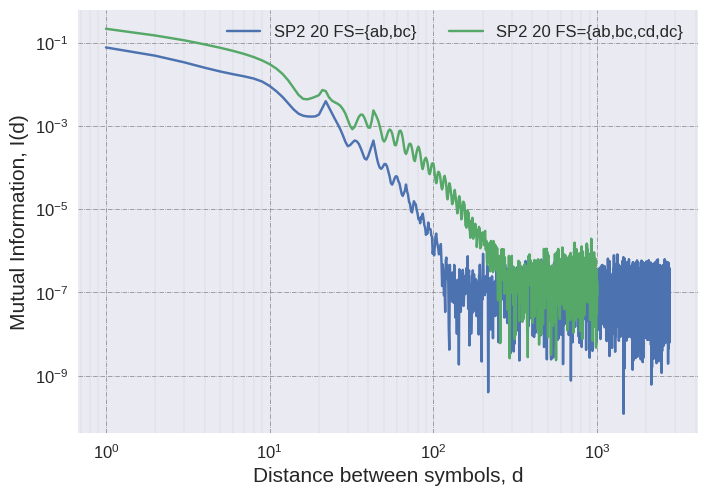
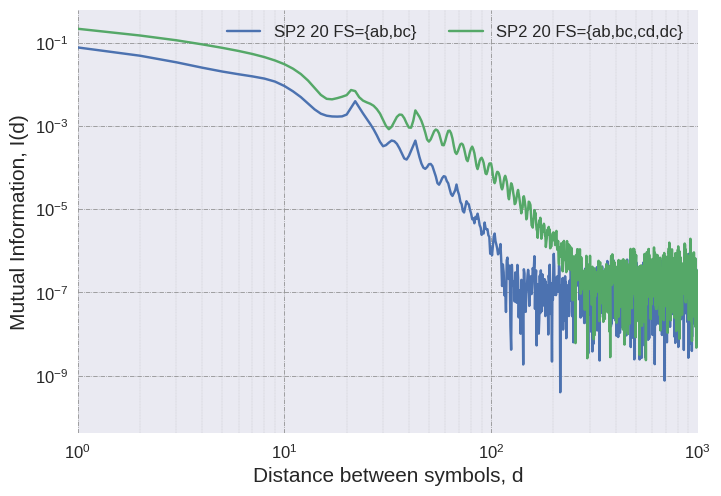
Up

diff --git a/paper_related/stuff/plot_sp.py b/paper_related/stuff/plot_sp.py
@@ -59,7 +59,7 @@ with plt.style.context(('seaborn')):
     plt.grid(which='major', linestyle='-.', linewidth='0.5', color='grey')
     plt.grid(which='minor', linestyle=':', linewidth='0.2', color='grey')
     ax = plt.axes()
-    # ax.set_xlim(1, len(all_mi[0]))
+    ax.set_xlim(1, 1000)
     # ax.set_ylim(-0.005, 0.06)
     print(ax.get_xlim())
     print(ax.get_ylim())
